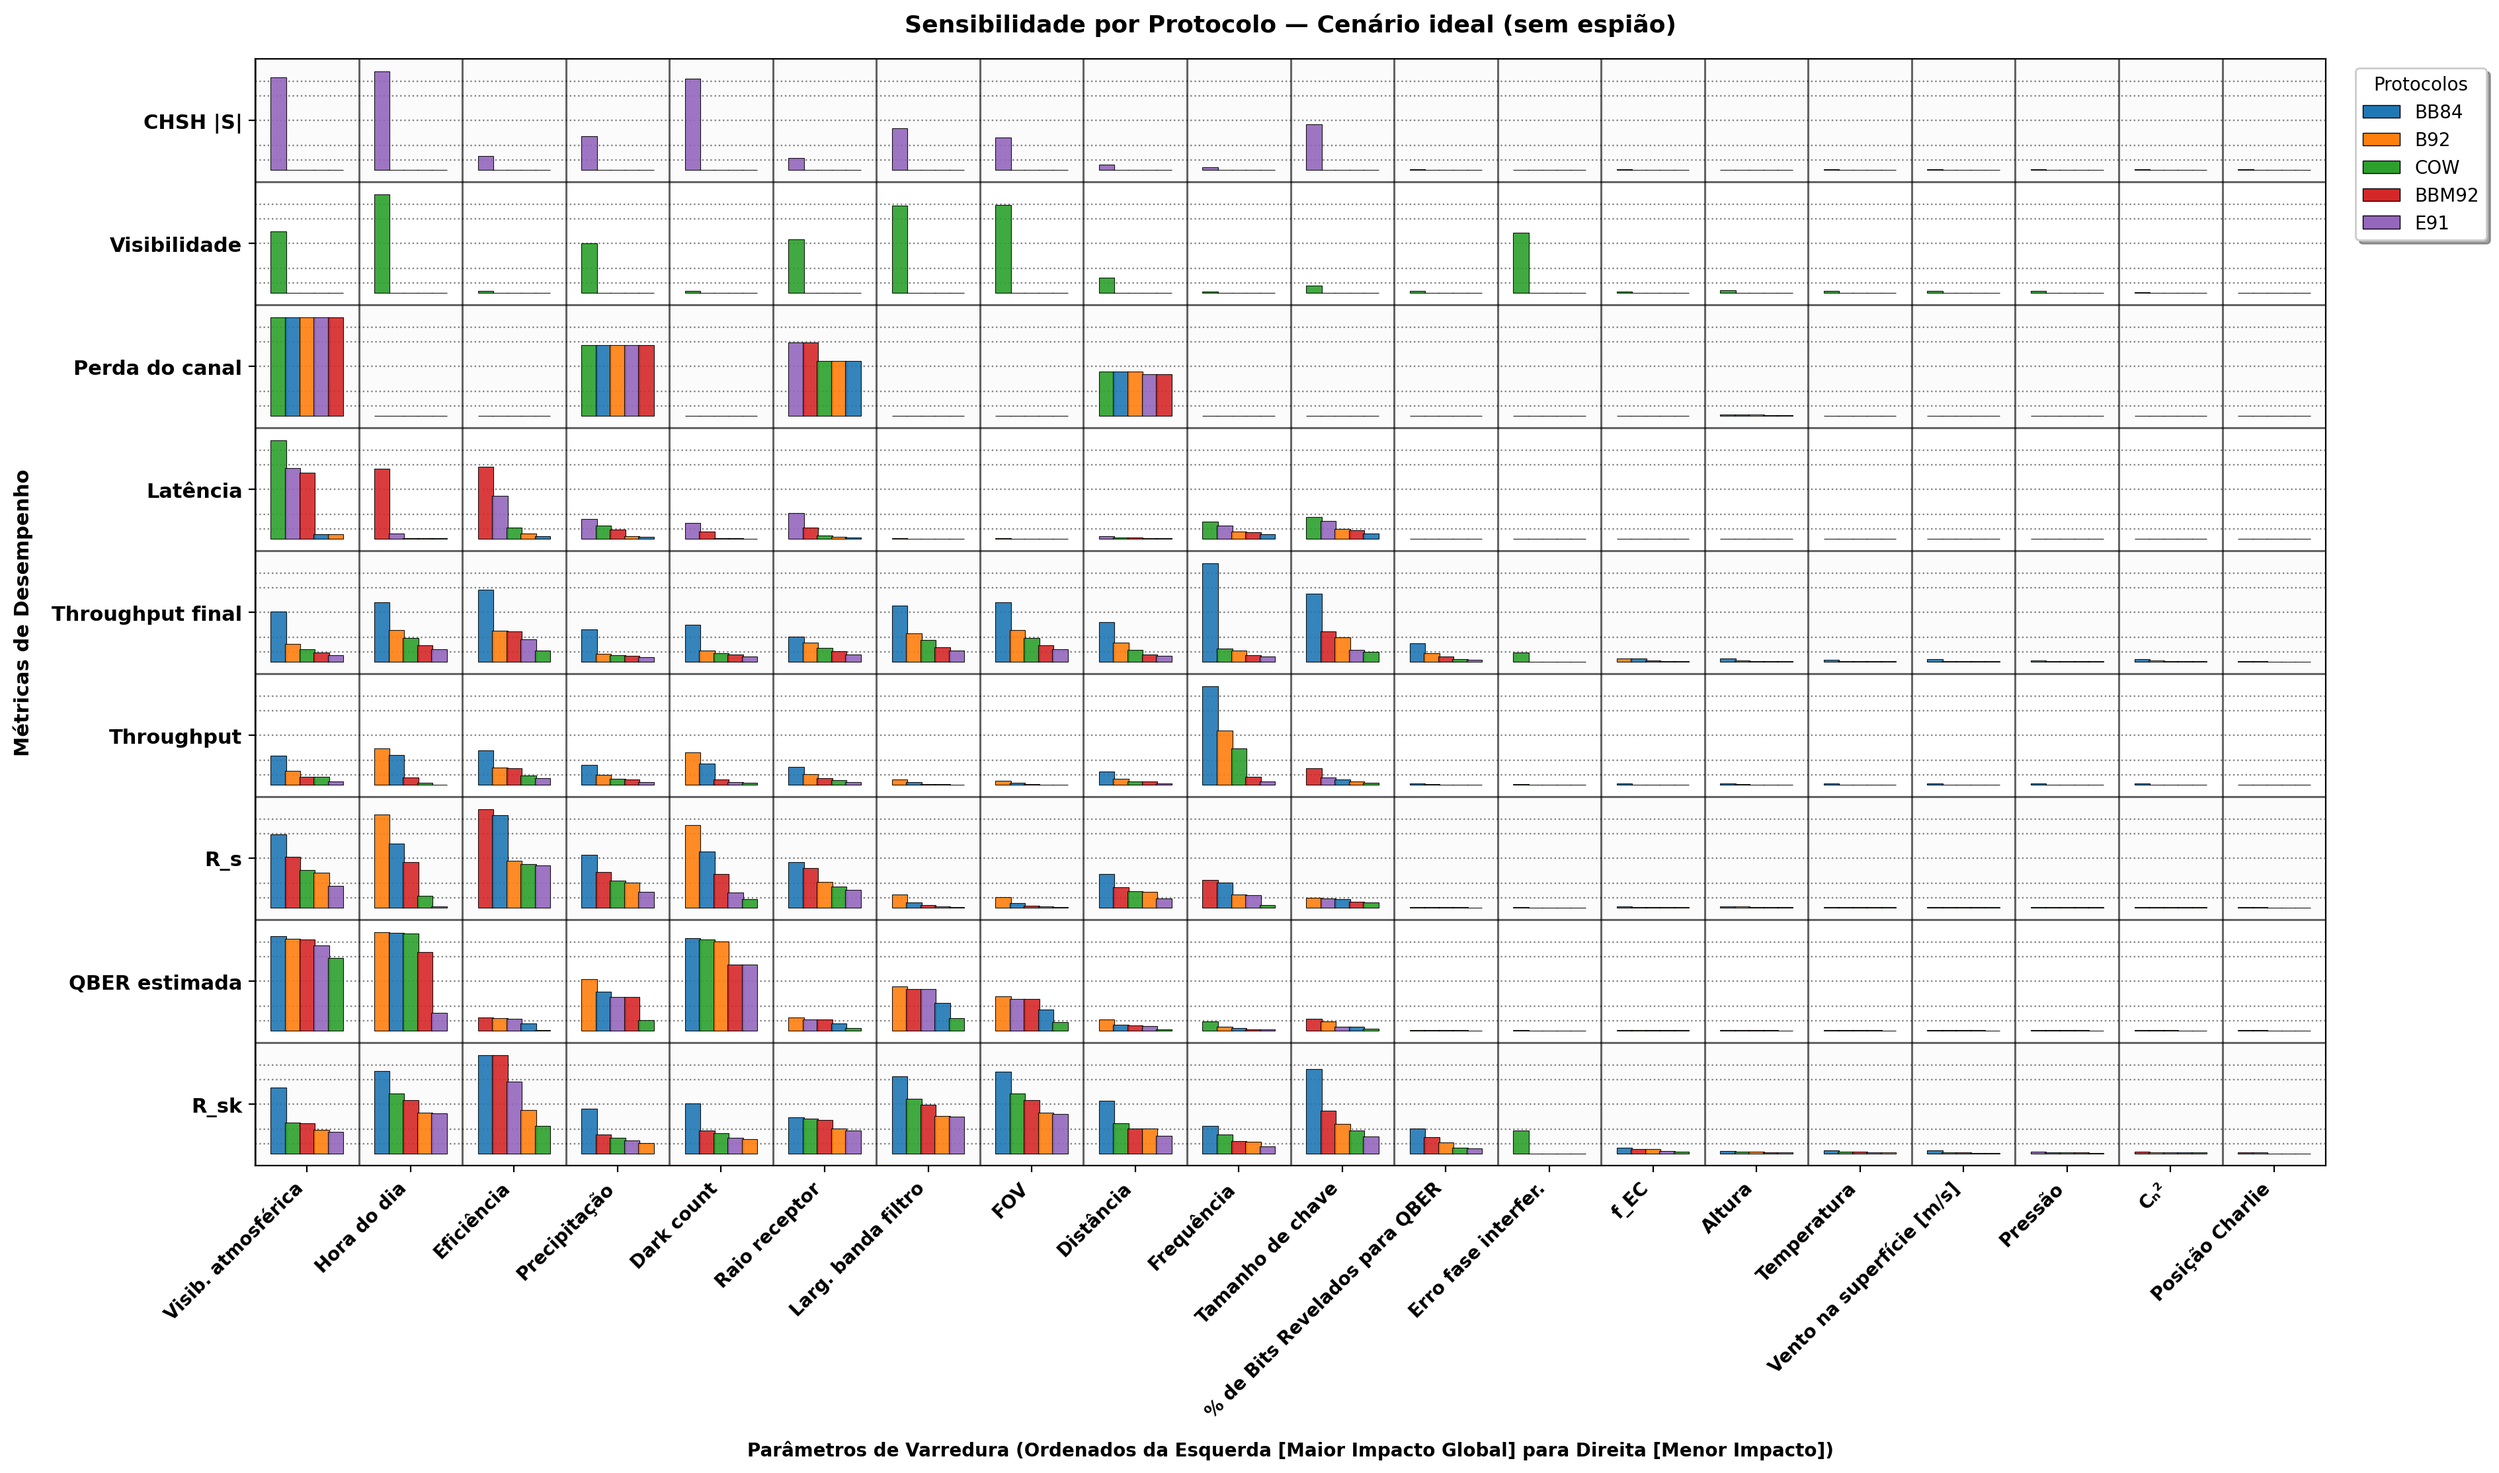
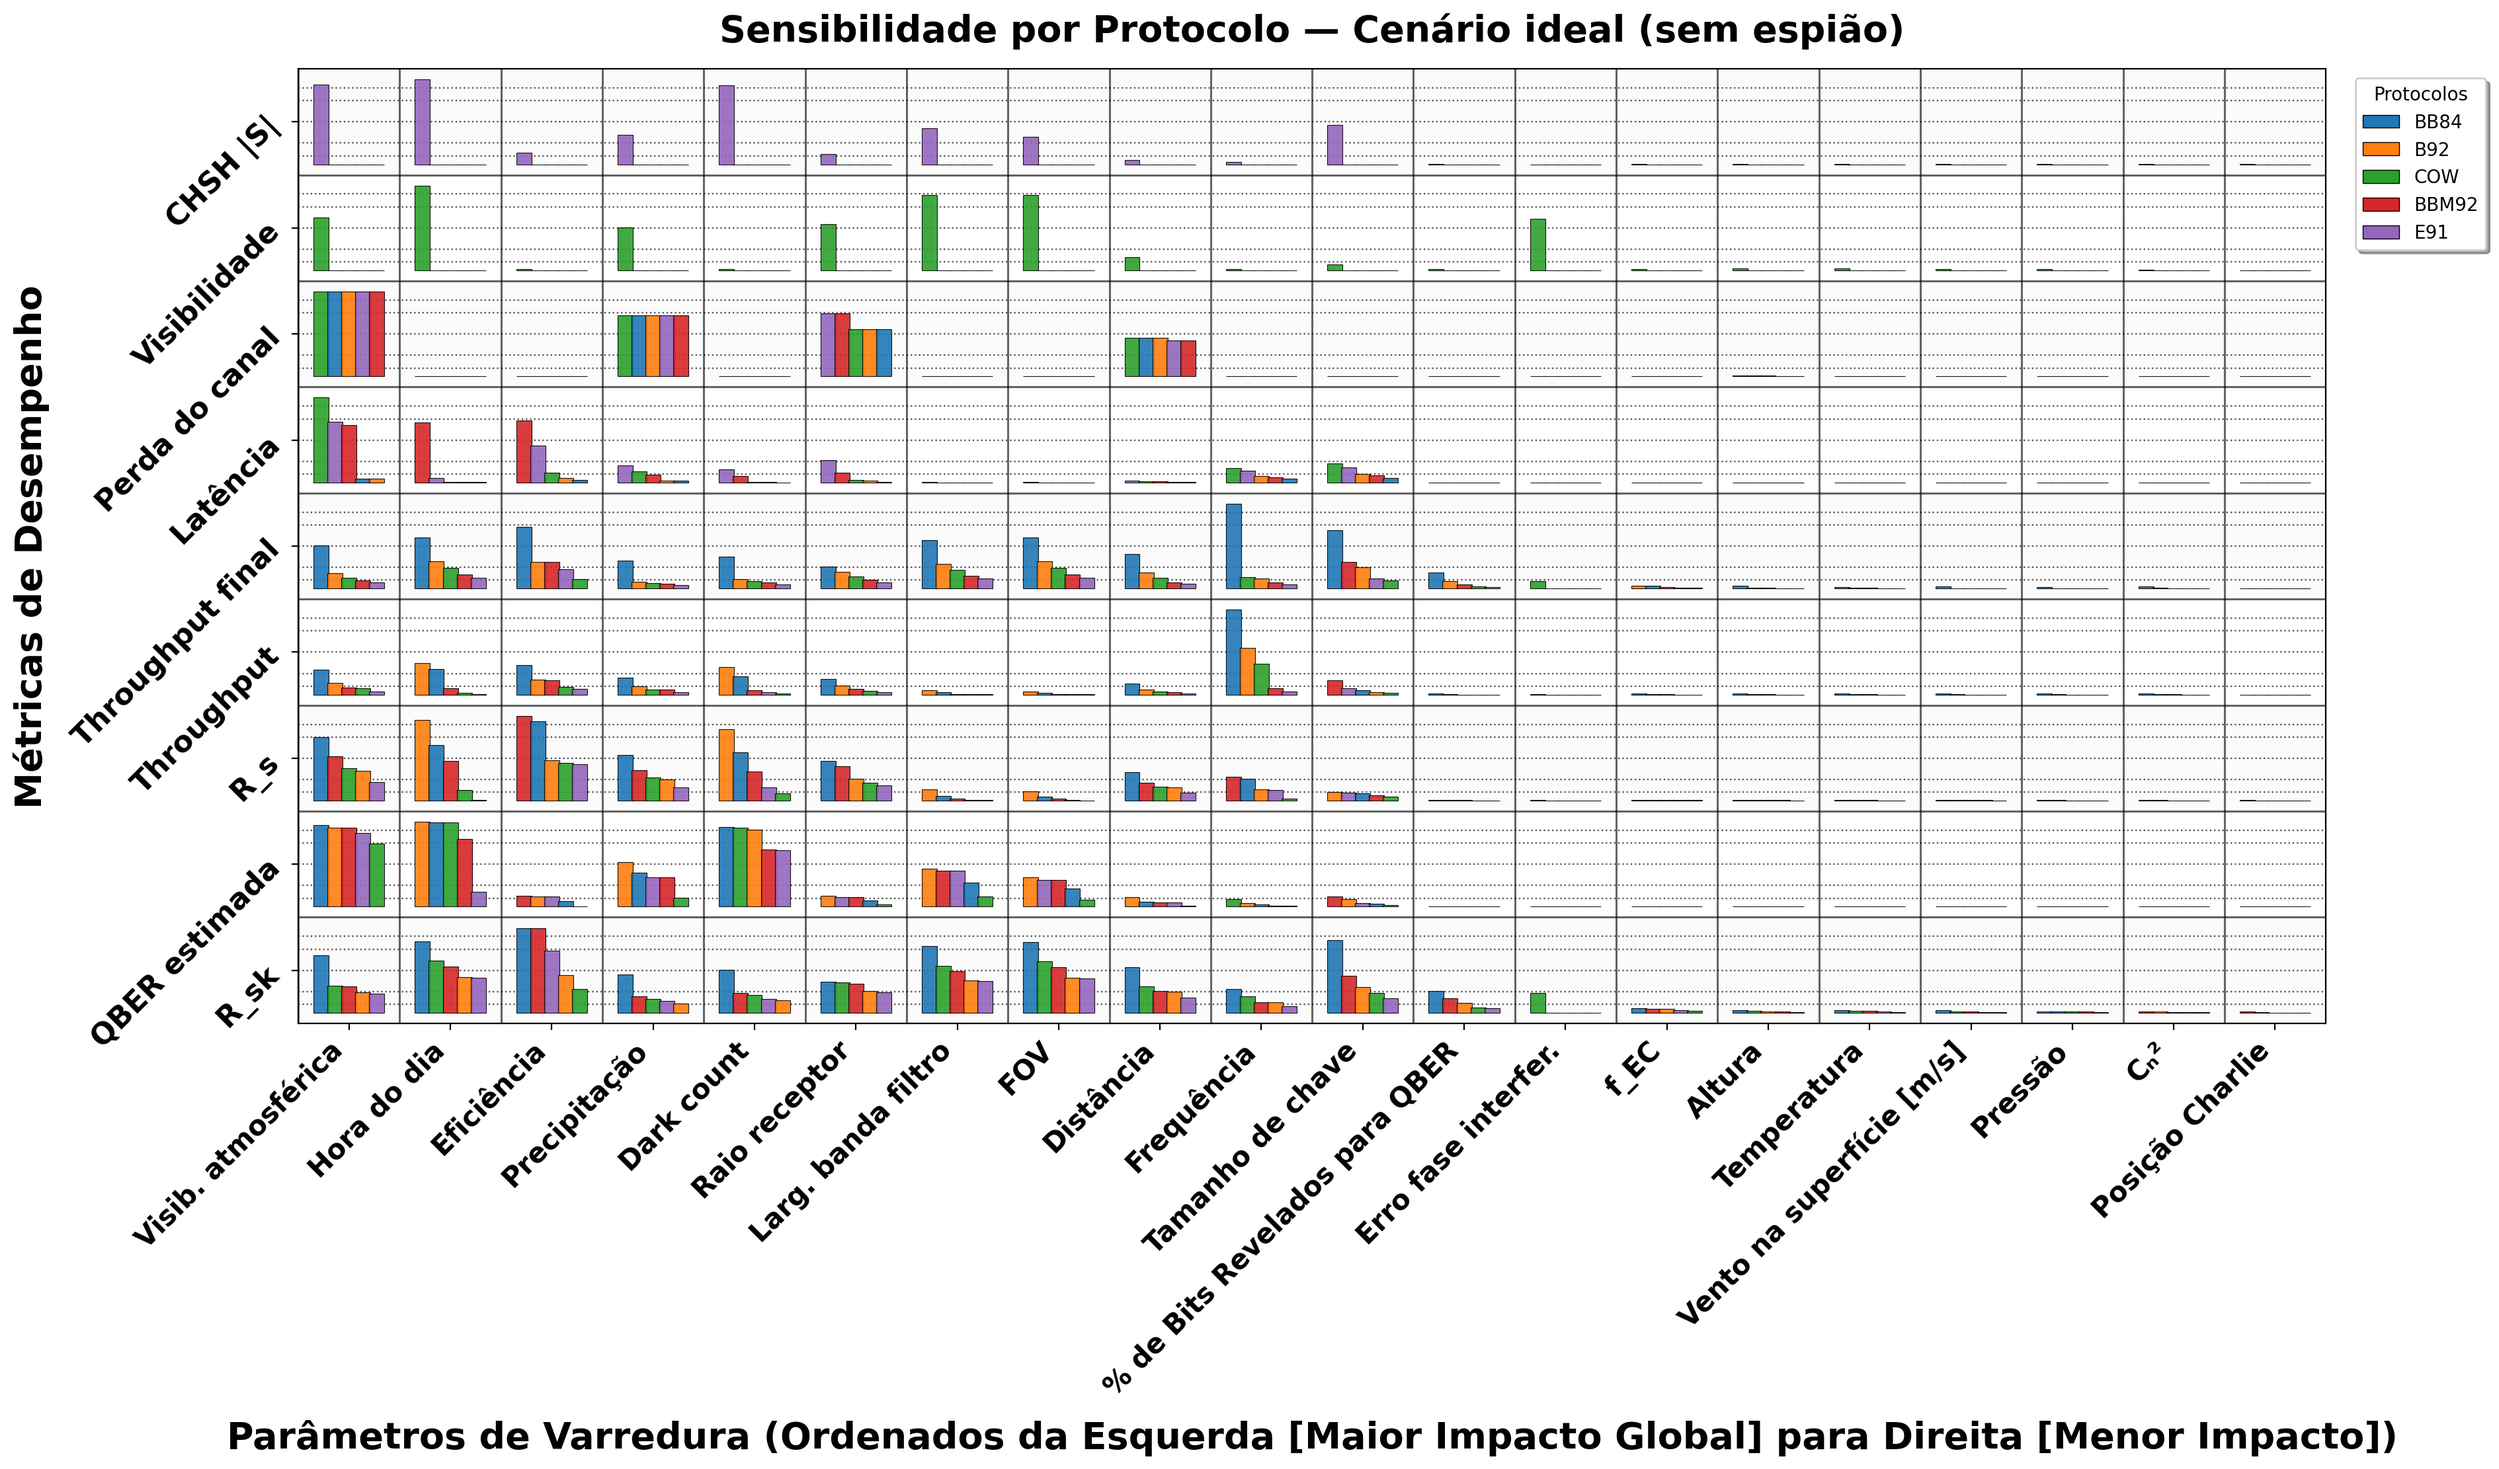
Update data folder and plot.py

diff --git a/plot.py b/plot.py
@@ -1100,7 +1100,7 @@ def plot_tornado_all(sweep_dfs, suffix, title, filename):
         # Linhas horizontais de referência de amplitude de alto contraste
         for lvl in ref_levels:
             y_ref = (m_idx - 0.4) + lvl * 0.8
-            ax.axhline(y_ref, color='#444444', linestyle=':', alpha=0.65, linewidth=0.85, zorder=1)
+            ax.axhline(y_ref, color='black', linestyle=':', alpha=0.65, linewidth=0.85, zorder=1)
 
     for s_idx in range(n_sweeps + 1):
         ax.axvline(s_idx - 0.5, color='black', linestyle='-', alpha=0.6, linewidth=1.1)
@@ -1140,16 +1140,16 @@ def plot_tornado_all(sweep_dfs, suffix, title, filename):
 
     # 7. Formatação de eixos e títulos
     ax.set_xticks(np.arange(n_sweeps))
-    ax.set_xticklabels([_short_sweep(s) for s in sweeps_sorted], rotation=45, ha='right', fontsize=10, fontweight='bold')
+    ax.set_xticklabels([_short_sweep(s) for s in sweeps_sorted], rotation=45, ha='right', fontsize=15, fontweight='bold')
     ax.set_yticks(np.arange(n_metrics))
-    ax.set_yticklabels([METRIC_INFO[m][0] for m in metrics], fontsize=11, fontweight='bold')
+    ax.set_yticklabels([METRIC_INFO[m][0] for m in metrics], rotation=45, ha='right', fontsize=16, fontweight='bold')
 
     ax.set_xlim(-0.5, n_sweeps - 0.5)
     ax.set_ylim(-0.5, n_metrics - 0.5)
 
-    ax.set_title(title, fontsize=13, fontweight='bold', pad=15)
-    ax.set_xlabel("Parâmetros de Varredura (Ordenados da Esquerda [Maior Impacto Global] para Direita [Menor Impacto])", fontsize=10, fontweight='bold', labelpad=10)
-    ax.set_ylabel("Métricas de Desempenho", fontsize=11, fontweight='bold', labelpad=10)
+    ax.set_title(title, fontsize=20, fontweight='bold', pad=15)
+    ax.set_xlabel("Parâmetros de Varredura (Ordenados da Esquerda [Maior Impacto Global] para Direita [Menor Impacto])", fontsize=20, fontweight='bold', labelpad=10)
+    ax.set_ylabel("Métricas de Desempenho", fontsize=20, fontweight='bold', labelpad=10)
 
     # Sombra alternada entre as linhas
     for m_idx in range(0, n_metrics, 2):
@@ -1322,7 +1322,7 @@ def main():
         #plot_sweep(df, filename=stem, title=title)
         plot_sweep(df, filename=stem)
         print(f"[ok] {sweep}  ({os.path.basename(path)})")
-    
+
     # Special side-by-side comparison: distance vs. key size (if both exist).
     if "distance" in dfs and "keysize" in dfs:
         df_d, df_k = dfs["distance"], dfs["keysize"]
@@ -1336,7 +1336,7 @@ def main():
                         filename="eve_scenario",
                         subtitle_left=subtitle_d, subtitle_right=subtitle_k)
         print("[ok] comparação dupla distance × keysize")
-    
+
     # Comparison figures per (protocol, scenario):
     #   A) parallel-coordinates grid (top-N highlighted, others faded)
     #   B) tornado (sensitivity ranking)
